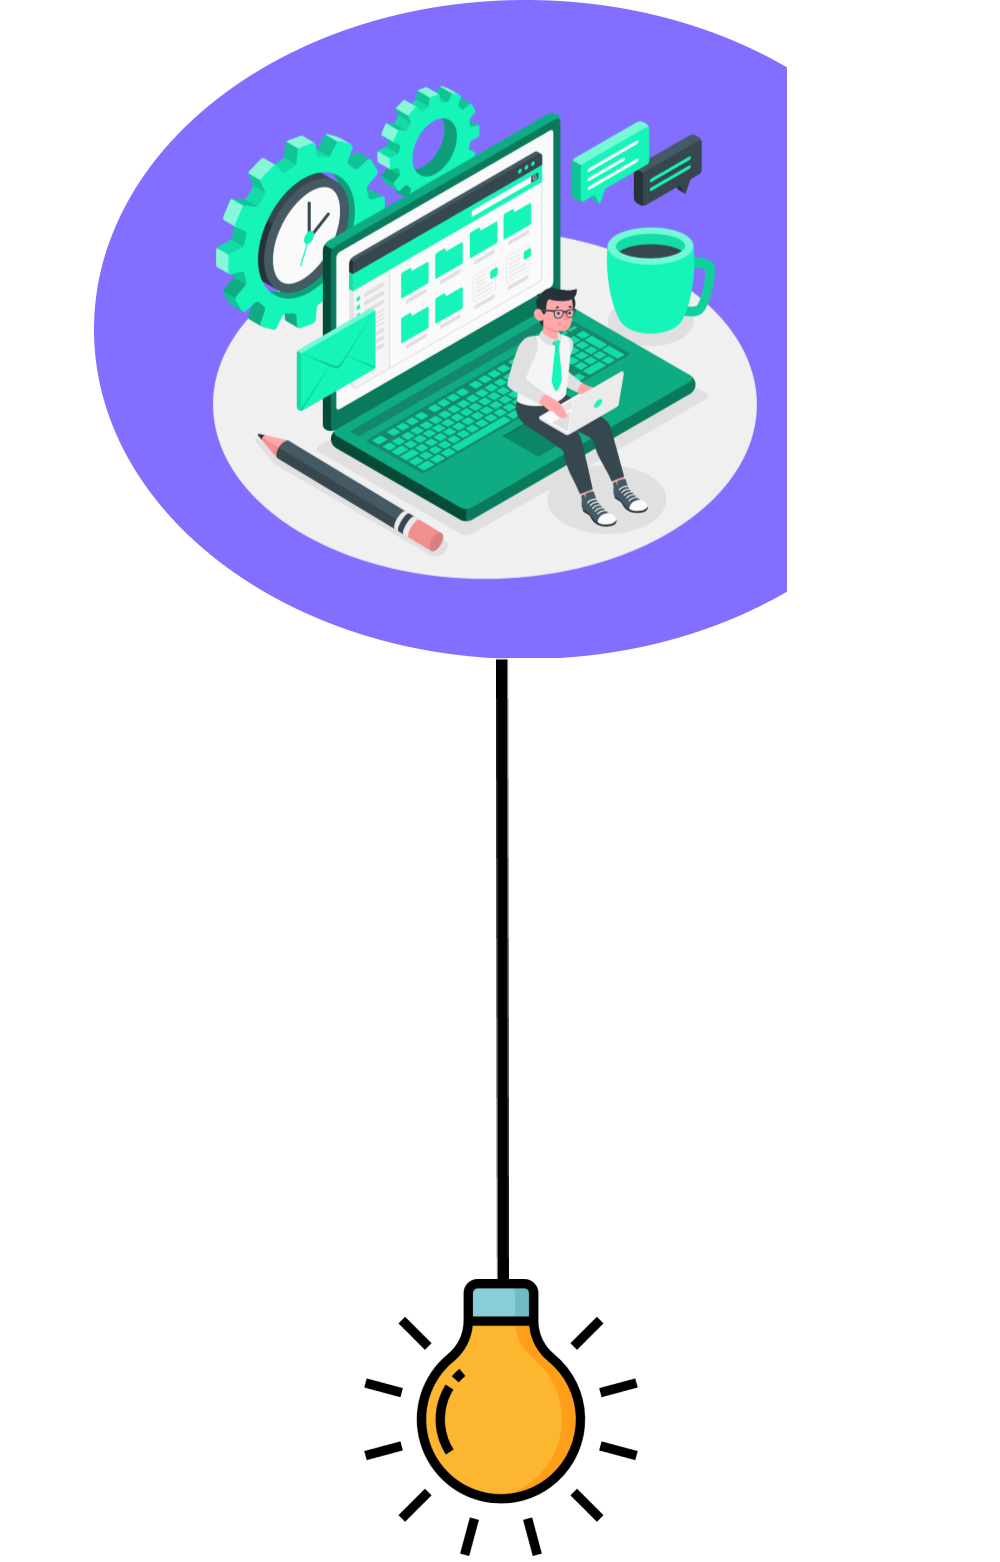
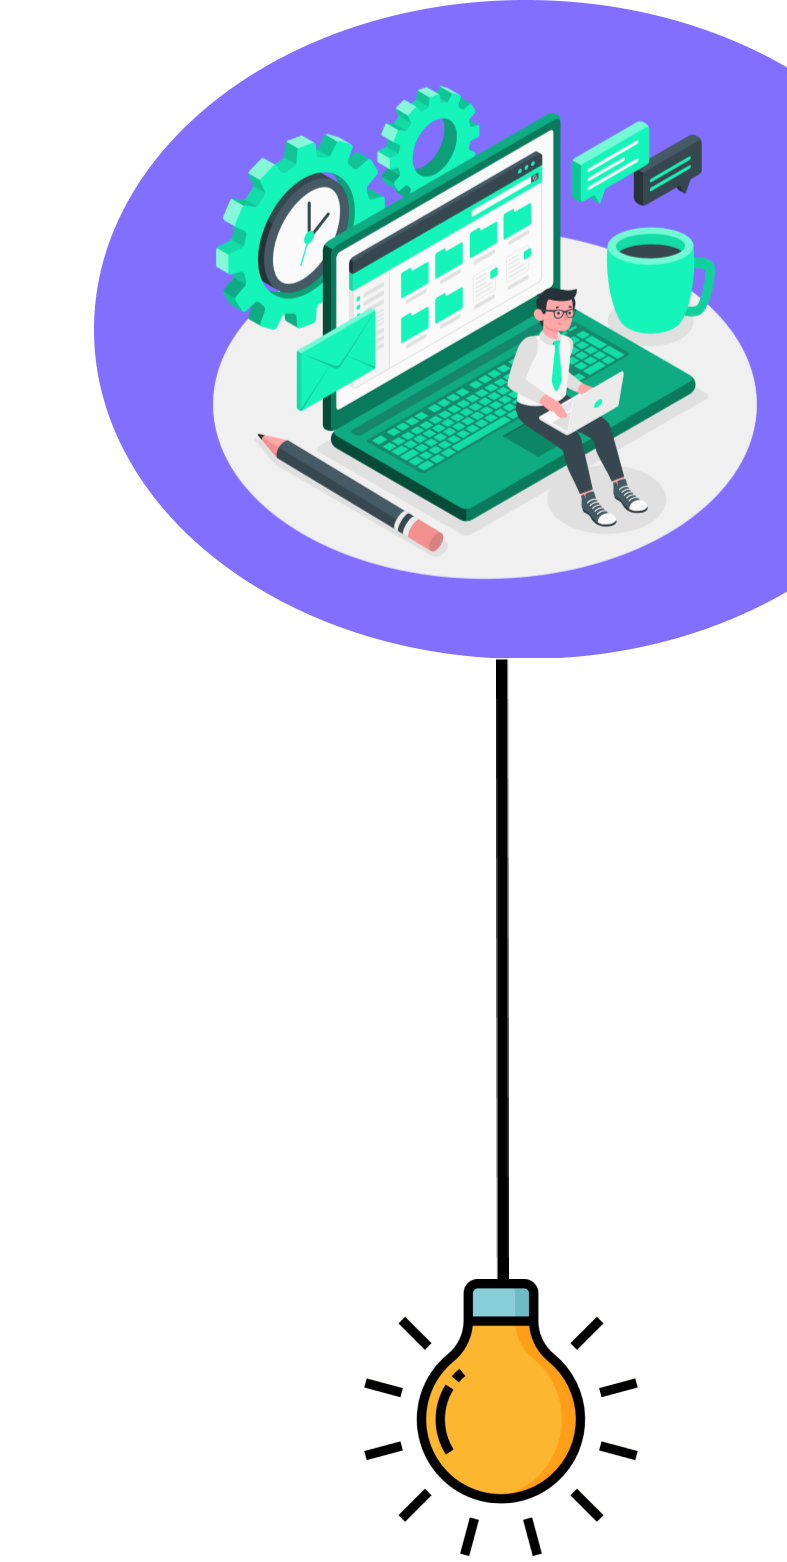
fix: image on right, not sure how to save the rest

diff --git a/resources/js/Pages/Welcome.jsx b/resources/js/Pages/Welcome.jsx
@@ -46,7 +46,7 @@ export default function Welcome({ auth, laravelVersion, phpVersion }) {
                             </p>
                         </div>
                     </div>
-                    <div className="absolute top-[0px] right-[-130px] w-[600px] h-auto z-[0] pointer-events-none">
+                    <div className="absolute top-[0px] right-[0px] w-[600px] h-auto z-[0] pointer-events-none">
                         <img
                             src="/images/Onboarding/Combine2.png"
                             className="w-full h-auto rounded drop-shadow-xl"
